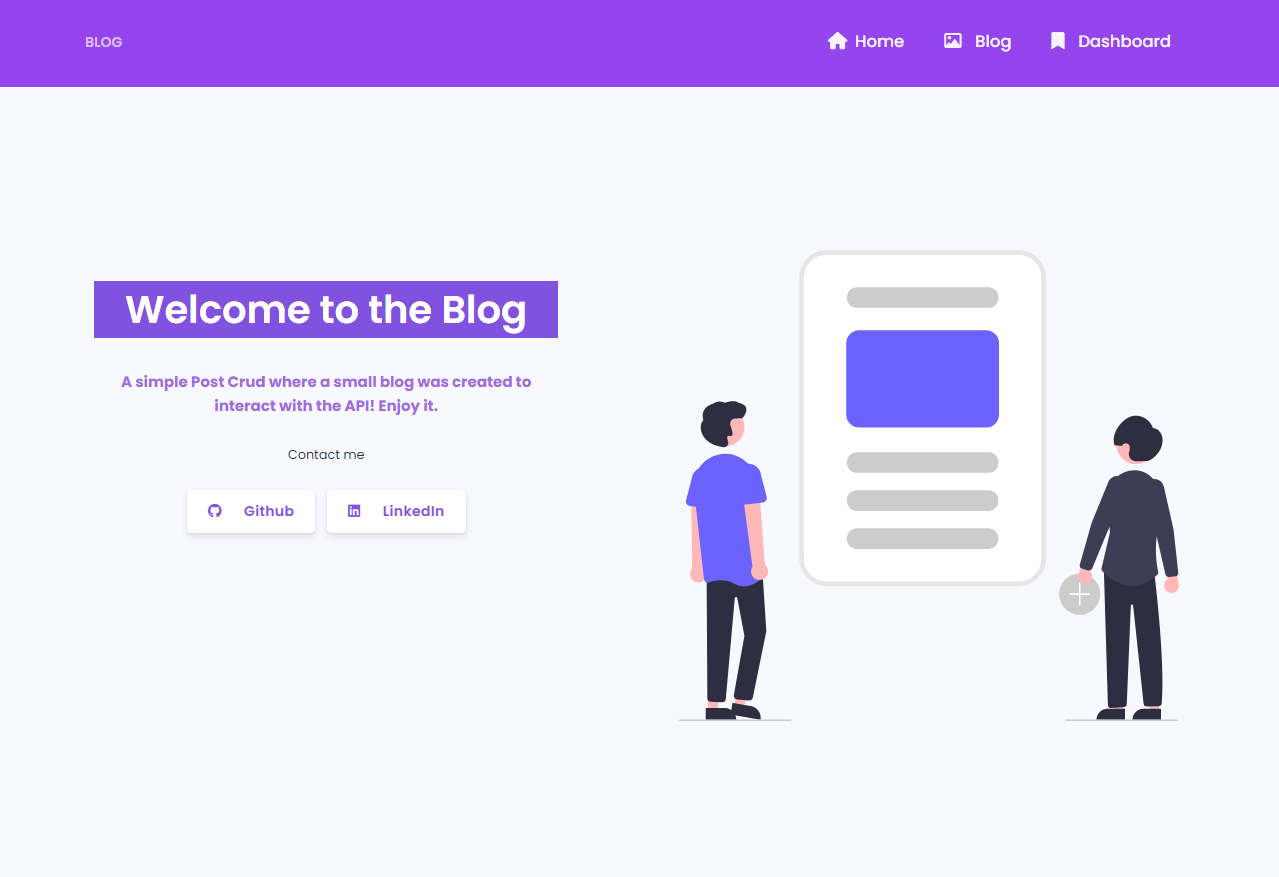
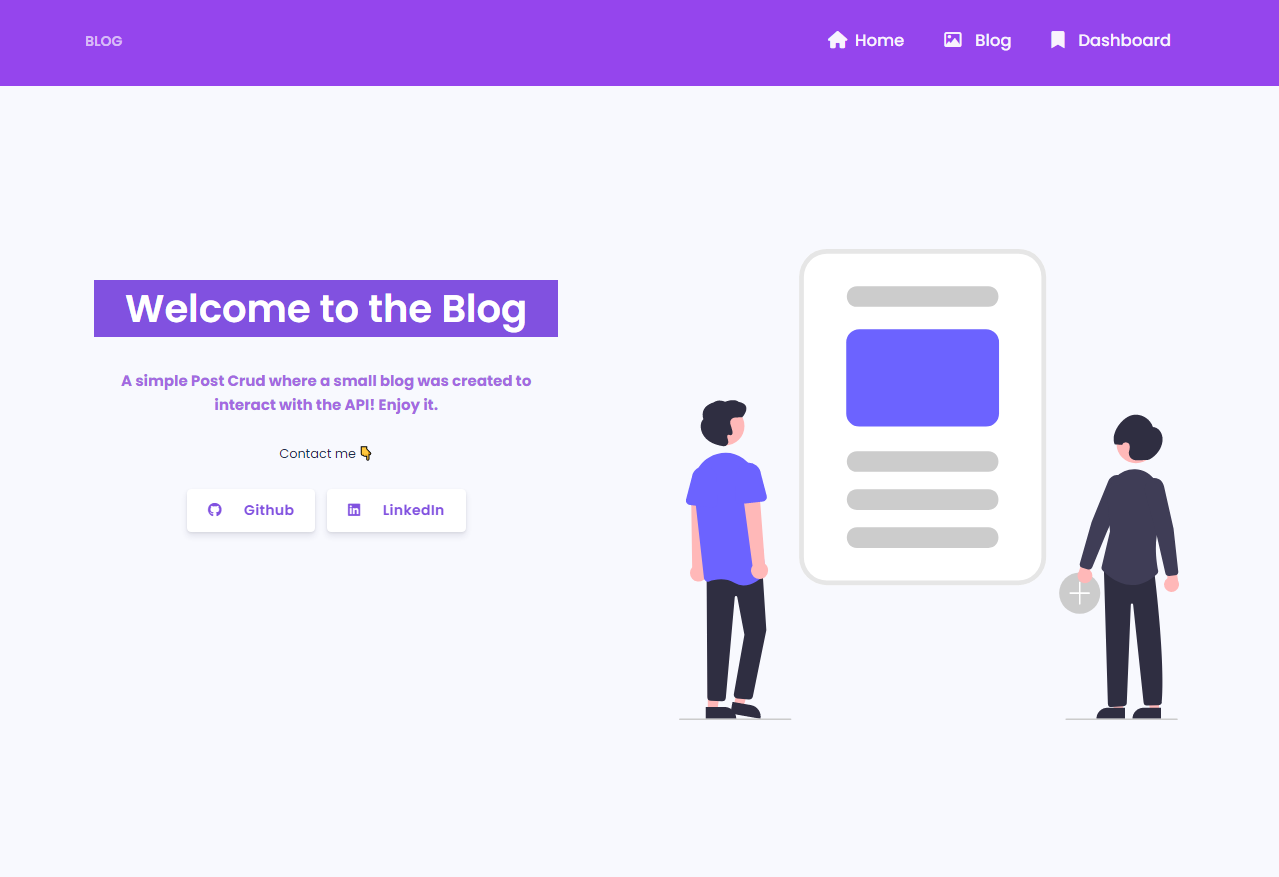
Update

diff --git a/pages/index.vue b/pages/index.vue
@@ -12,7 +12,7 @@
           </center>
 
           <center>
-            <small style="color: #172b4d;"><br>Contact me</small>
+            <small style="color: #172b4d;"><br>Contact me 👇</small>
           </center>
 
           <div class="btn-wrapper text-center">

diff --git a/README.md b/README.md
@@ -15,7 +15,7 @@ Sobre mim 👇
 
 ```
 
-**Obs:** 
+**Obs:**  
 - A intenção desse projeto não é focar no front-end, ou seja, não está responsivo.
 - Pretendo dar continuidade no desenvolvimento desse projeto, trazendo melhorias.
 
